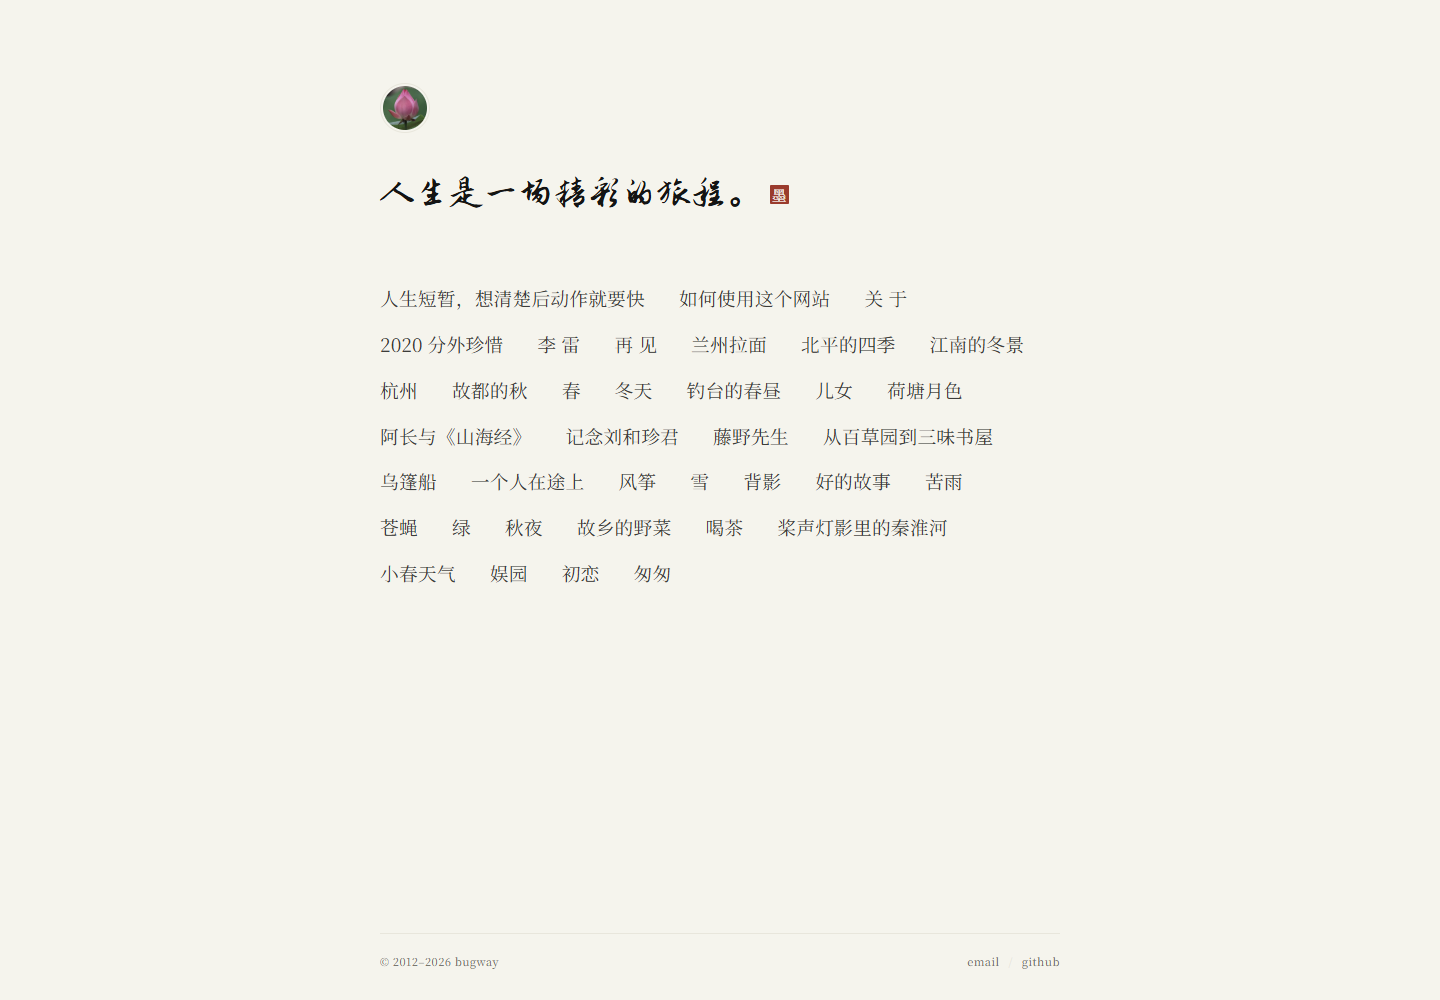
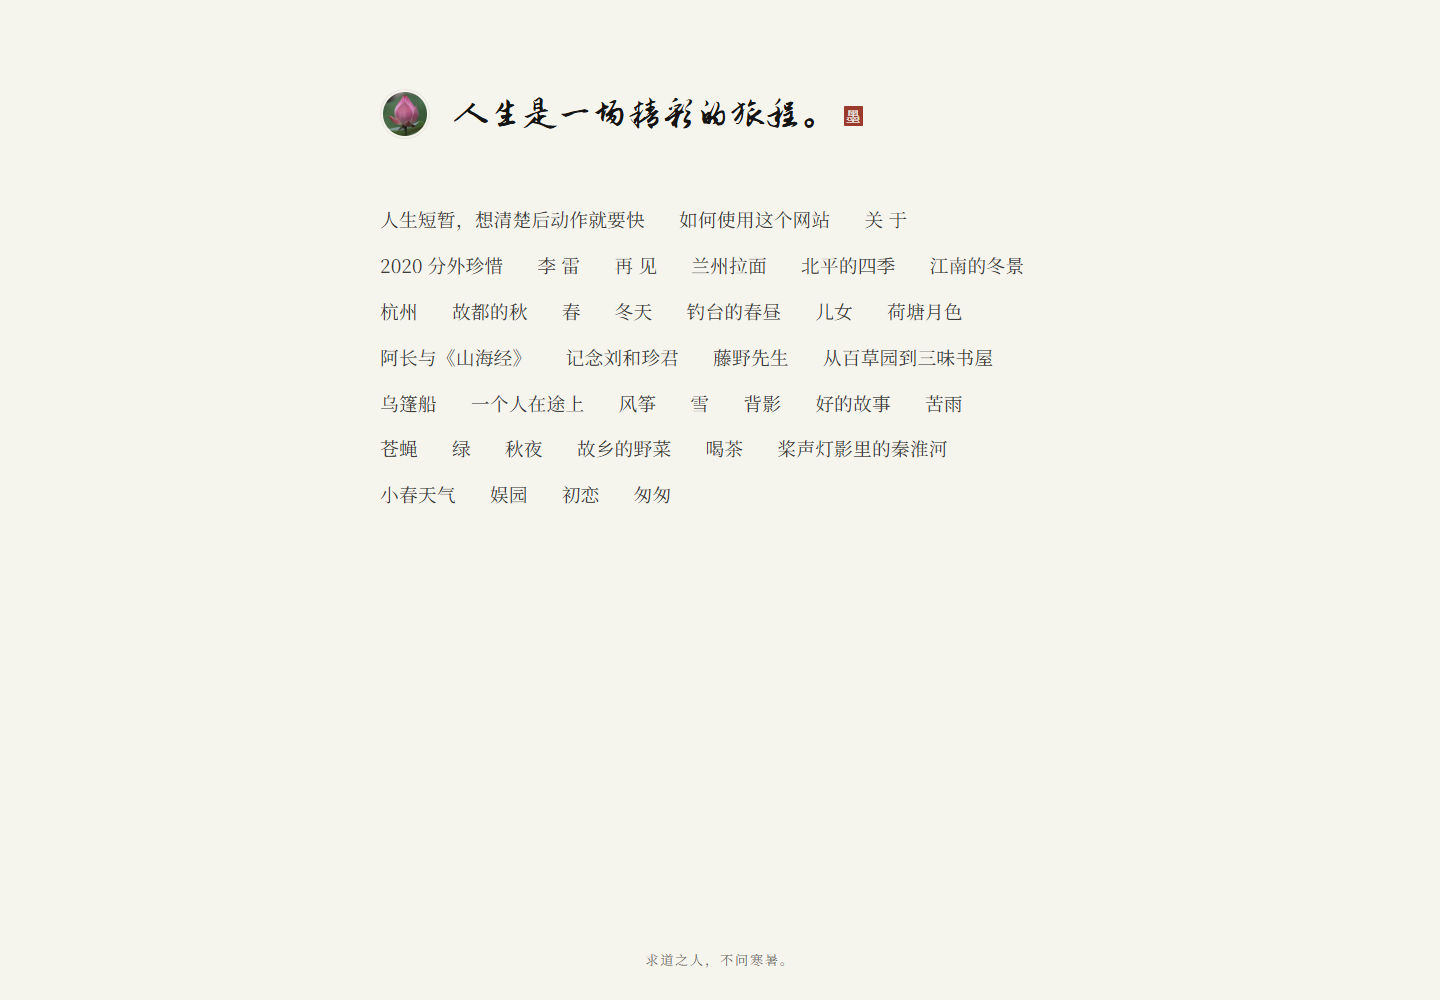
docs: update inline header and footer preview

diff --git a/docs/plans/2026-10-19-blog-redesign-design.md b/docs/plans/2026-10-19-blog-redesign-design.md
@@ -61,15 +61,19 @@ python new_post.py "文章的标题" --serve
 
 - The filename supplies the date and URL. Existing URLs are preserved.
 - The first paragraph supplies the page description.
-- The article byline is `author · year` when provided, otherwise the filename date.
+- The article date line is `author · year` when provided, otherwise the filename date,
+  and appears at the bottom right.
 
 ## Layout
 
 - **Paper:** Kami-style warm parchment `#f5f4ed`, ink `#141413`, four warm neutral
   text levels, cinnabar accent `#9a3b2d` used only for the seal, links, and hover.
-- **Home:** small lotus mark, brush tagline with a tiny `墨` seal, then all post titles as
-  one uniform inline tag cloud. Newest first. No cards, dates, or counts.
-- **Article:** small lotus link home, author/year, brush title, prose, one return link.
+- **Home:** the lotus mark and brush tagline sit in one row (mark on the left, tagline on
+  the right, with a tiny `墨` seal), followed by all post titles as one uniform inline
+  tag cloud. Newest first. No cards, dates, or counts.
+- **Article:** the lotus mark and brush title share one row, with the mark on the left;
+  the body follows immediately. The date/author line sits at the bottom right, with the
+  return link at the bottom left.
 - **Article measure:** 680px, about 35 Chinese characters per line. Body text is 19px with
   a 1.85 line-height on desktop and 18px with 1.82 on phones.
 - **Rhythm (borrowed from Kami):** body is left-aligned, never justified, with no
@@ -80,7 +84,8 @@ python new_post.py "文章的标题" --serve
   the site statement and article title.
 - **Chrome:** flat paper, no gradient, no shadows, no decorative rules or side bars,
   no motion. Only one hairline (footer) and one cinnabar seal.
-- **Footer:** copyright, email, GitHub, one hairline rule.
+- **Footer:** a single centered line, 「求道之人，不问寒暑。」. No copyright, email,
+  GitHub, navigation, or rule.
 - **404:** the same quiet paper page.
 
 ## Typography
